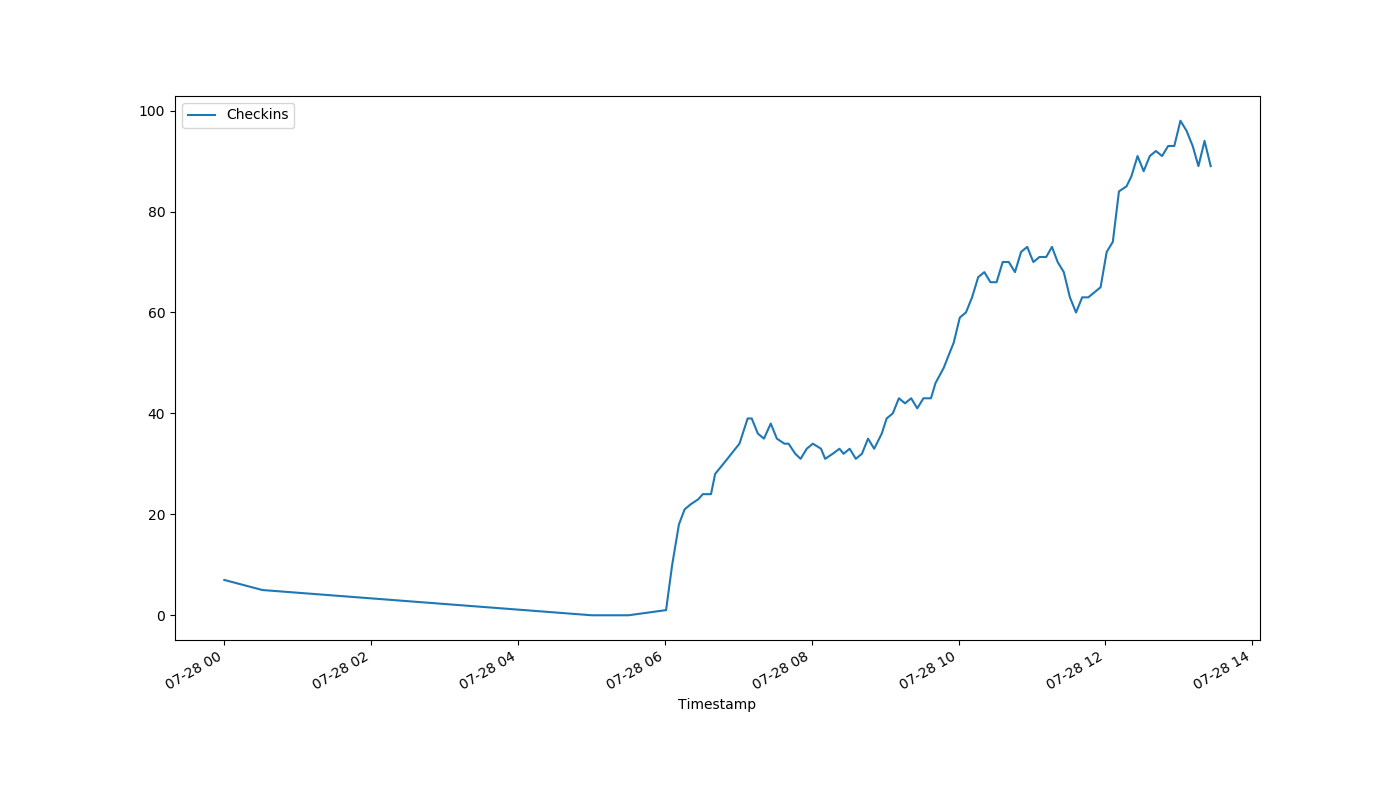
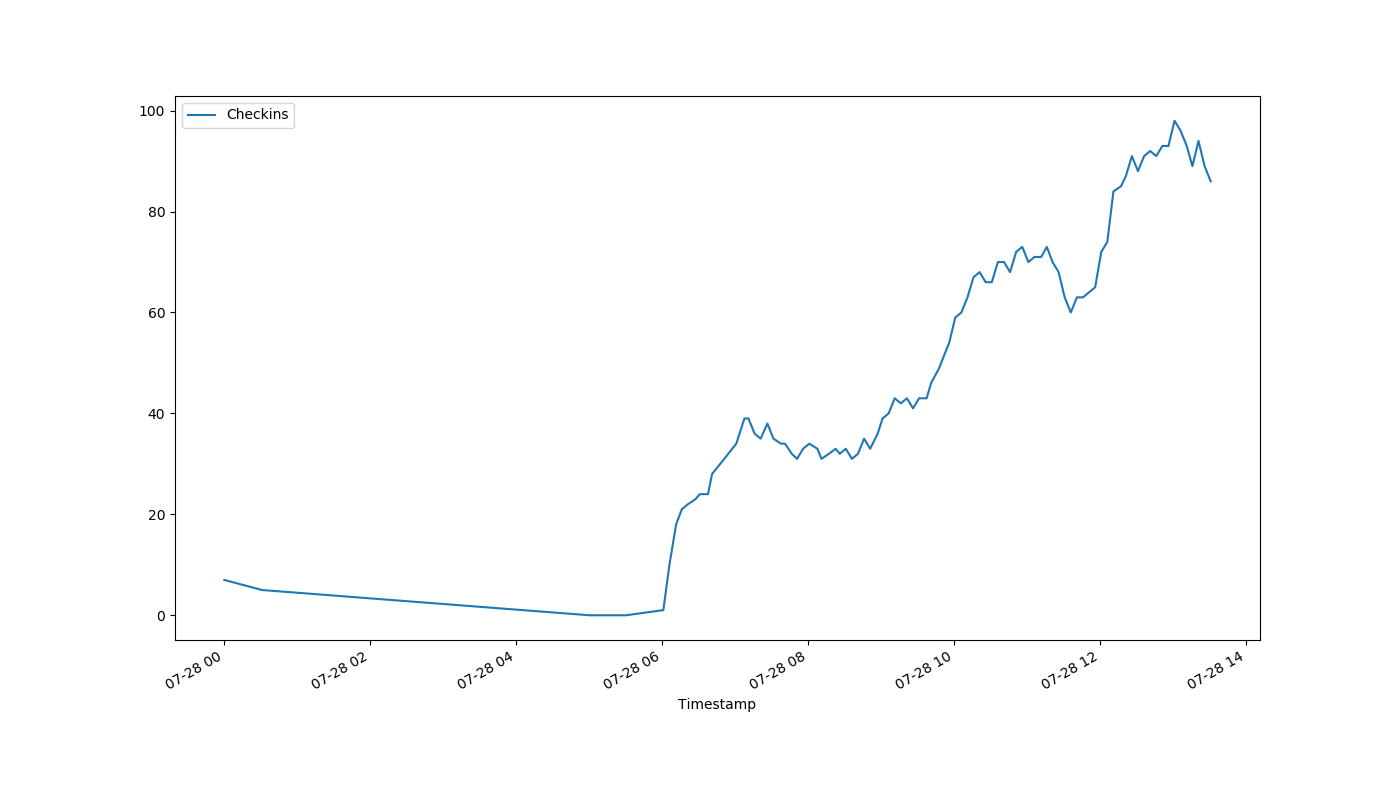
auto-Jul-28-13:31:10

diff --git a/index.html b/index.html
@@ -1,1 +1,1 @@
-<!DOCTYPE html><html><head><meta http-equiv="refresh" content="30"><link rel='stylesheet' href='holmcurrent.css'></head><body><p id='count'>89</p><div id='graph-wrap'><img id='graph' src='holmgraph-Jul-28.png'></div><p id='updated'>Last updated 13:26:03 / 13:26:00</p></body></html>
+<!DOCTYPE html><html><head><meta http-equiv="refresh" content="30"><link rel='stylesheet' href='holmcurrent.css'></head><body><p id='count'>86</p><div id='graph-wrap'><img id='graph' src='holmgraph-Jul-28.png'></div><p id='updated'>Last updated 13:31:03 / 13:31:01</p></body></html>
